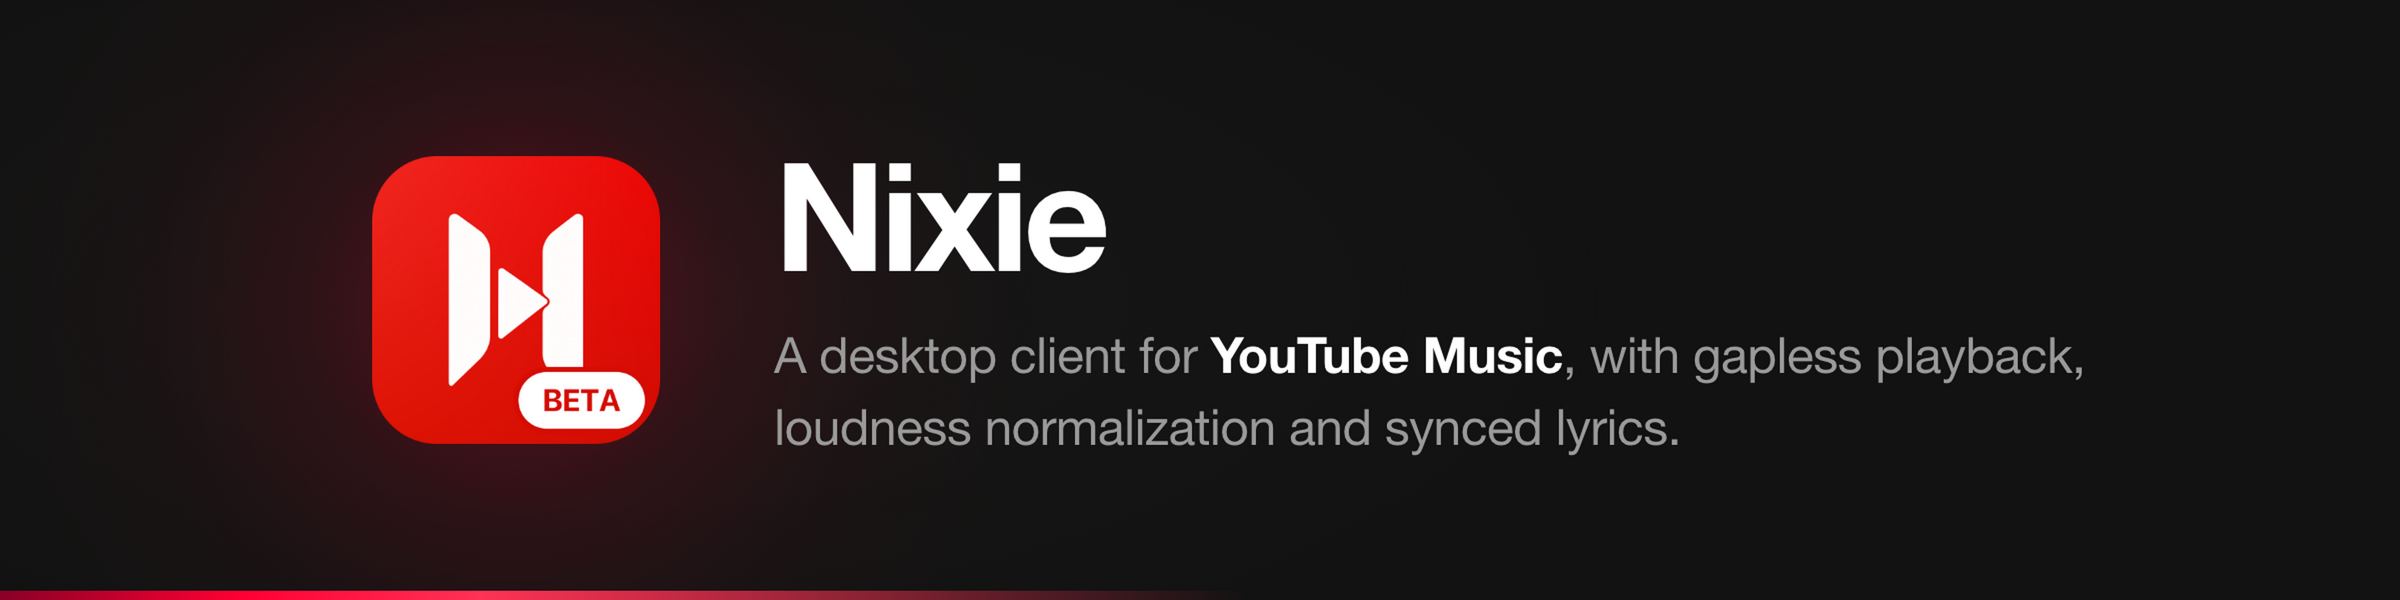
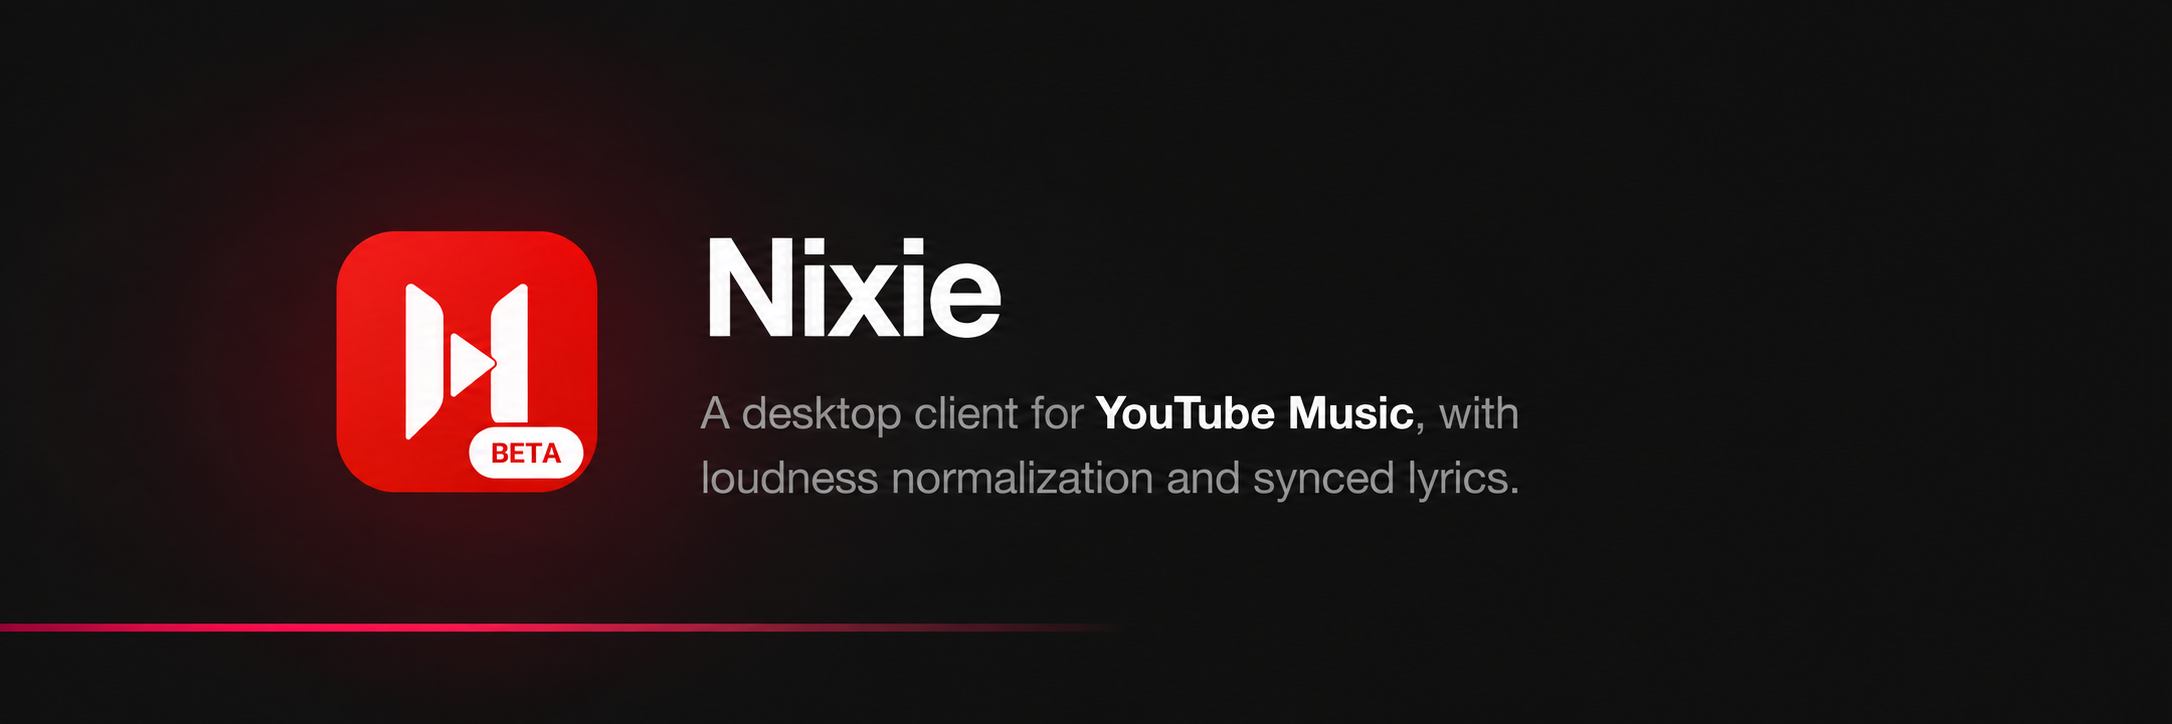
docs(copy): remove gapless playback claims

diff --git a/src/locales/it/signin.ts b/src/locales/it/signin.ts
@@ -3,7 +3,7 @@ import type { signin as en } from "../en/signin";
 export const signin: typeof en = {
 	heroTitle: "Un vero player per la tua musica.",
 	heroBody:
-		"Le tue playlist, i tuoi album e la tua raccolta in un player desktop nativo. Niente schede del browser, niente pubblicità, riproduzione senza pause.",
+		"Le tue playlist, i tuoi album e la tua raccolta in un player desktop nativo. Niente schede del browser, niente pubblicità.",
 	continueWith: (name, detail) => (detail ? `Continua con ${name}, ${detail}` : `Continua con ${name}`),
 	extensionTitle: "Collega Chrome, Edge, Brave o Vivaldi",
 	notSignedInTo: "Accesso non effettuato su",

diff --git a/src/locales/en/signin.ts b/src/locales/en/signin.ts
@@ -1,7 +1,7 @@
 /** The sign-in view and the two screens that stand in for the app: its wording is the app's disclosure. */
 export const signin = {
 	heroTitle: "A real player for your music.",
-	heroBody: "Your playlists, albums and library, in a native desktop player. No browser tab, no ads, gapless.",
+	heroBody: "Your playlists, albums and library, in a native desktop player. No browser tab, no ads.",
 	continueWith: (name: string, detail?: string) =>
 		detail ? `Continue with ${name}, ${detail}` : `Continue with ${name}`,
 	extensionTitle: "Connect Chrome, Edge, Brave or Vivaldi",

diff --git a/README.md b/README.md
@@ -1,5 +1,5 @@
 <p align="center">
-  <img src="docs/banner.png" alt="Nixie: a desktop client for YouTube Music, with gapless playback, loudness normalization and synced lyrics." width="100%">
+  <img src="docs/banner.png" alt="Nixie: a desktop client for YouTube Music, with loudness normalization and synced lyrics." width="100%">
 </p>
 
 <p align="center">
@@ -12,8 +12,8 @@
 </p>
 
 Nixie is a desktop client for YouTube Music. It plays your account's music through a
-native app instead of a browser tab: gapless playback, loudness normalization you can
-actually set, time-synced lyrics, and a session that comes back exactly where you left it.
+native app instead of a browser tab: loudness normalization you can actually set,
+time-synced lyrics, and a session that comes back exactly where you left it.
 
 It is an independent project. There is no Nixie account, no backend and no telemetry.
 Everything it knows stays on your computer.
@@ -141,8 +141,6 @@ Now Playing in Control Center. It is a desktop app, not a web page in a frame.
 
 **Playback**
 
-- Gapless playback with two audio decks. The handoff is armed before the boundary rather
-  than triggered when a track ends, so joins are seamless even on a minimized window.
 - Loudness normalization at -19, -14 or -11 LUFS, or off.
 - A volume slider that behaves like your ears do, not like a gain multiplier.
 - Queue with play next, add to queue, reorder and remove. Repeat off, all or one. Shuffle.
